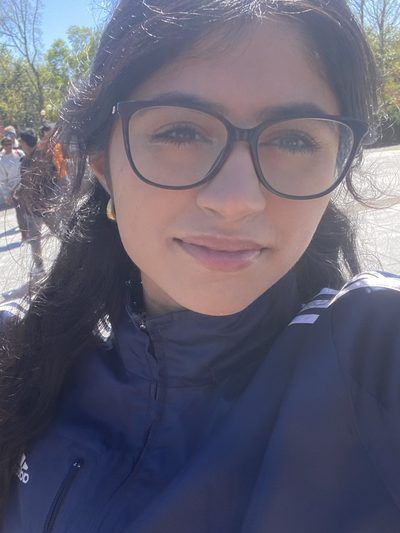
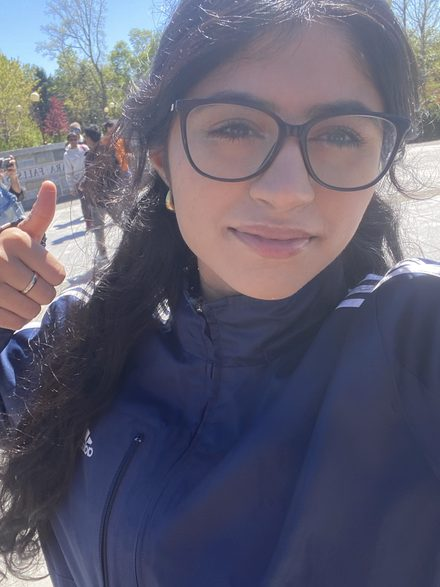
lay the hero out with the photo on the right

diff --git a/index.html b/index.html
@@ -22,8 +22,10 @@
     unicode-range:U+1319D-1319F;font-display:swap}
   .glyph,.fish,h2 .g{font-family:"Noto Sans Egyptian Hieroglyphs","Segoe UI Historic","Apple Symbols",serif}
   .fish{color:var(--soft);letter-spacing:.4em;font-size:20px;margin:0}
-  .me{display:block;width:92px;height:92px;border-radius:50%;object-fit:cover;margin:18px 0 2px;
-    border:2px solid var(--rule);background:var(--panel)}
+  .hero{display:flex;justify-content:space-between;align-items:flex-start;gap:32px}
+  .hero .txt{min-width:0}
+  .me{flex:none;width:220px;height:293px;border-radius:12px;object-fit:cover;margin-top:36px;
+    border:1px solid var(--rule);background:var(--panel)}
   h1{font:600 46px/1.08 "Newsreader",Georgia,serif;margin:18px 0 10px;letter-spacing:-.015em}
   .claim{font:400 23px/1.45 "Newsreader",Georgia,serif;margin:0 0 16px;max-width:30ch}
   .claim b{font-weight:600;color:var(--deep);font-style:italic}
@@ -73,6 +75,7 @@
   .verdict.under{color:var(--muted)}
   .verdict .big{font:600 25px/1 "Newsreader",Georgia,serif;margin-right:3px}
   .why{font-size:14.5px!important;color:var(--muted);margin:4px 0 0!important}
+  @media(max-width:600px){.hero{flex-direction:column-reverse;gap:8px}.me{width:170px;height:227px;margin-top:0}}
   @media(max-width:430px){.hero{padding:48px 0 6px}h1{font-size:35px}.claim{font-size:20px}
     .bar .lbl{width:66px}.bar .val{width:62px}.row{flex-direction:column;gap:1px}
     .pick .k{width:100%}}
@@ -81,8 +84,8 @@
 <body><main>
 
   <div class="hero">
+    <div class="txt">
     <p class="fish">𓆝 𓆟 𓆞</p>
-    <img class="me" src="img/me.jpg" width="92" height="92" alt="purnoor sharma">
     <h1>hi, i'm purnoor!</h1>
     <p class="degree">computer science <span class="amp">+</span> informatics @ ut austin, may 2028</p>
     <p class="claim"><b>cs for the backend.</b><br><b>informatics for the user.</b></p>
@@ -90,6 +93,8 @@
     <p class="links">
       <a href="https://github.com/noorps">github</a><span>·</span><a href="https://linkedin.com/in/purnoor-sharma">linkedin</a><span>·</span><a href="mailto:purnoor.sharma@utexas.edu">email</a><span>·</span><a href="/resume.pdf">résumé</a>
     </p>
+    </div>
+    <img class="me" src="img/me.jpg" width="220" height="293" alt="purnoor sharma">
   </div>
 
   <h2><span class="g">𓆟</span>what i've built</h2>
